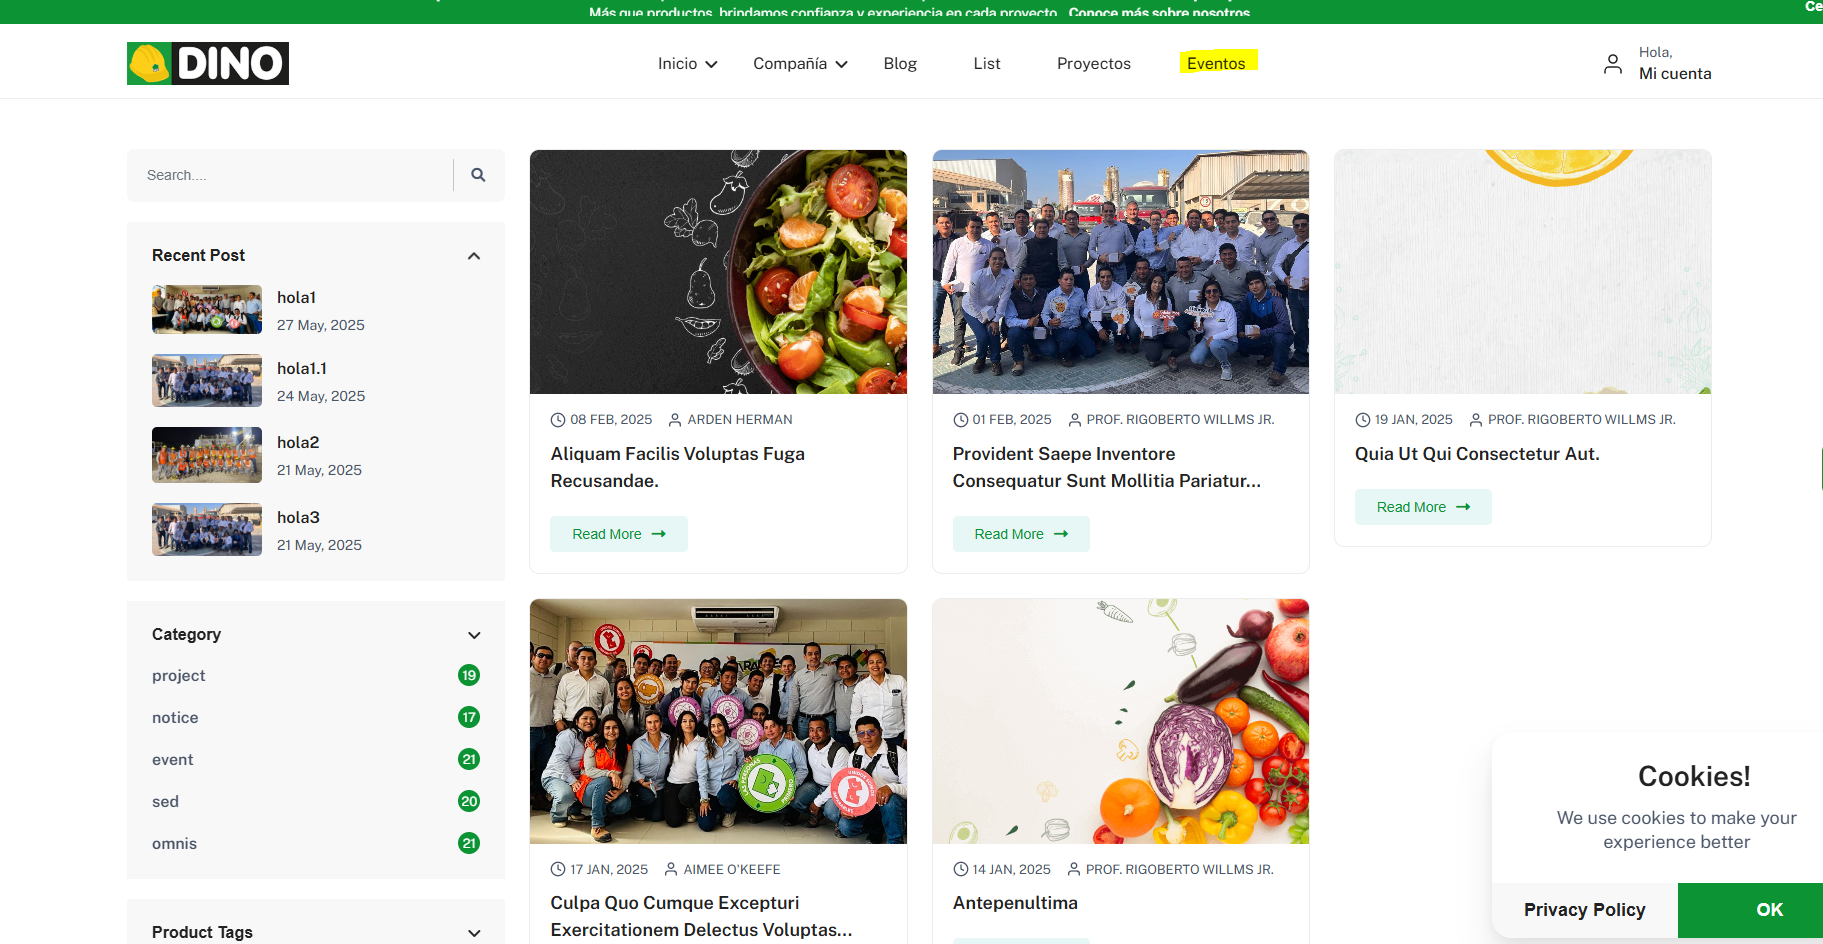
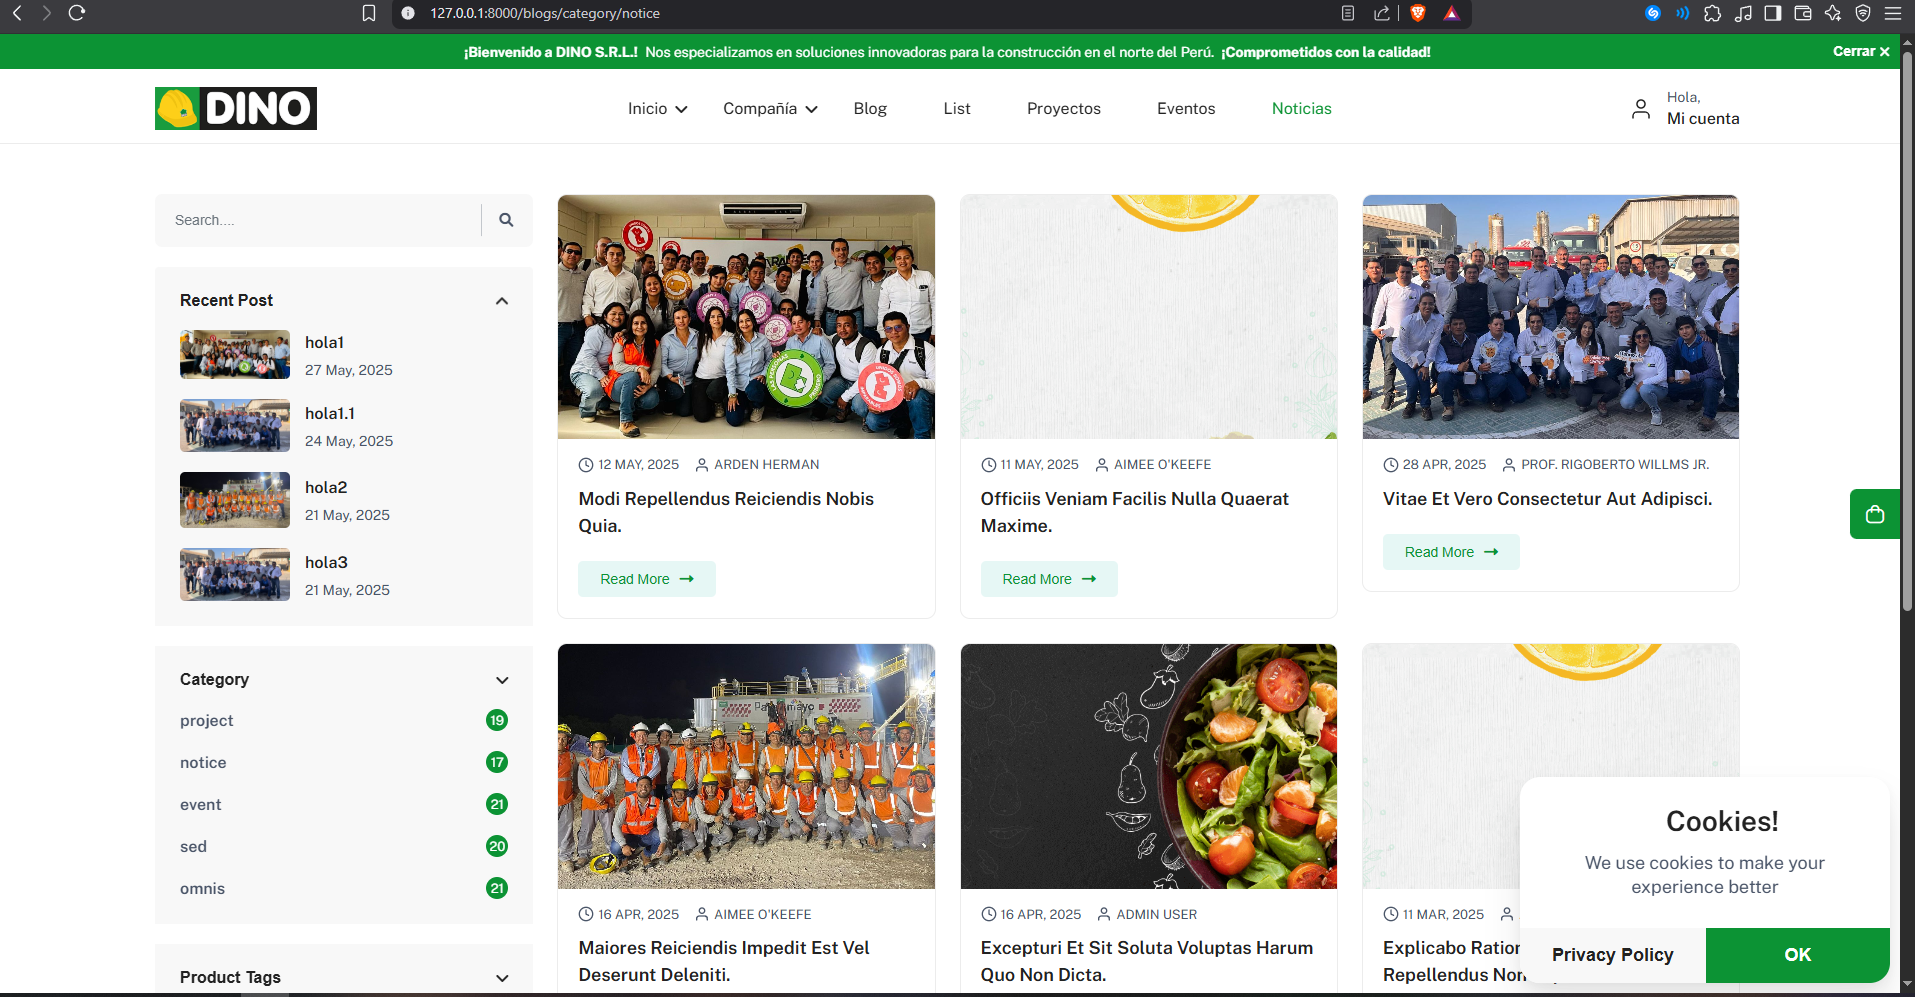
Se agrega notice en el proyecto. La cual se modifica el PostController, se agrega ruta en web.php y el header. Se agrega evidencia.

diff --git a/resources/views/blog/partials/notice-item.blade.php b/resources/views/blog/partials/notice-item.blade.php
@@ -1,0 +1,53 @@
+@extends('layouts.app')
+
+@section('title', 'noticie')
+
+@section('content')
+    <!-- Blog Section Start -->
+    <section class="blog-section section-b-space">
+        <div class="container-fluid-lg">
+            <div class="row g-4">
+                <div class="col-xxl-9 col-xl-8 col-lg-7 order-lg-2">
+                    <div class="row g-4">
+                        @foreach ($allPosts as $post)
+                            @if ($post->categories->contains('slug', 'notice'))
+                                <div class="col-12">
+                                    <div class="blog-box blog-list wow fadeInUp">
+                                        <div class="blog-image">
+                                            <img src="{{ asset('storage/' . $post->featured_image) }}"
+                                                class="img-fluid blur-up lazyload" alt="">
+                                        </div>
+
+                                        <div class="blog-contain blog-contain-2">
+                                            <div class="blog-label">
+                                                <span class="time"><i data-feather="clock"></i>
+                                                    <span>{{ $post->published_at->format('d M, Y') }}</span></span>
+                                                <span class="super"><i data-feather="user"></i>
+                                                    <span>{{ $post->user->name }}</span></span>
+                                            </div>
+                                            <a href="{{ route('posts.show', ['id' => $post->id, 'slug' => $post->slug]) }}">
+                                                <h3>{{ Str::limit($post->title, 60) }}</h3>
+                                            </a>
+
+                                            <button
+                                                onclick="location.href='{{ route('posts.show', ['id' => $post->id, 'slug' => $post->slug]) }}'"
+                                                class="blog-button">Read
+                                                More <i class="fa-solid fa-right-long"></i></button>
+                                        </div>
+                                    </div>
+                                </div>
+                            @endif
+                        @endforeach
+                    </div>
+
+                    {{-- Paginación --}}
+                    <nav class="custom-pagination mt-4">
+                        {{ $allPosts->links('pagination::bootstrap-5') }}
+                    </nav>
+                </div>
+                @include('blog.partials.leftSidebar')
+            </div>
+        </div>
+    </section>
+    <!-- Blog Section End -->
+@endsection

diff --git a/app/Http/Controllers/PostController.php b/app/Http/Controllers/PostController.php
@@ -87,4 +87,21 @@ class PostController extends Controller
 
         return view('blog.list', compact('allPosts', 'categories', 'tags', 'latestPosts'));
     }
+    public function notice()
+    {
+        $category = Category::where('slug', 'notice')->firstOrFail();
+
+        $allPosts = Post::with(['user', 'categories'])
+            ->whereHas('categories', function ($query) use ($category) {
+                $query->where('categories.id', $category->id);
+            })
+            ->latest('published_at')
+            ->paginate(6); // ajusta la cantidad si deseas
+
+        $categories = Category::with('posts')->get();
+        $tags = Tag::all();
+        $latestPosts = Post::latest('published_at')->take(4)->get();
+
+        return view('blog.notice-item', compact('allPosts', 'categories', 'tags', 'latestPosts'));
+    }
 }

diff --git a/resources/views/partials/header.blade.php b/resources/views/partials/header.blade.php
@@ -161,6 +161,13 @@
                                                     Eventos
                                                 </a>
                                             </li>
+
+                                            <li class="nav-item">
+                                                <a class="nav-link ps-xl-2 ps-0 no-icon {{ Route::is('posts.category') && request()->slug == 'notice' ? 'active' : '' }}"
+                                                    href="{{ route('posts.category', ['slug' => 'notice']) }}">
+                                                    Noticias
+                                                </a>
+                                            </li>
                                         </ul>
                                     </div>
                                 </div>

diff --git a/routes/web.php b/routes/web.php
@@ -13,6 +13,9 @@ Route::get('/blogs', [PostController::class, 'blog'])->name('blog.index');
 // 📃 Blog en vista tipo lista
 Route::get('/blogs/list', [PostController::class, 'list'])->name('blog.list'); // 👈 AQUI VA
 
+// 📢 Blog solo de avisos
+Route::get('/blogs/notice', [PostController::class, 'notice'])->name('blog.notice'); // 👈 AQUI AGREGA ESTA LÍNEA
+
 // 📁 Filtrar por categoría
 Route::get('/blogs/category/{slug}', [PostController::class, 'blog'])->name('posts.category');
 
